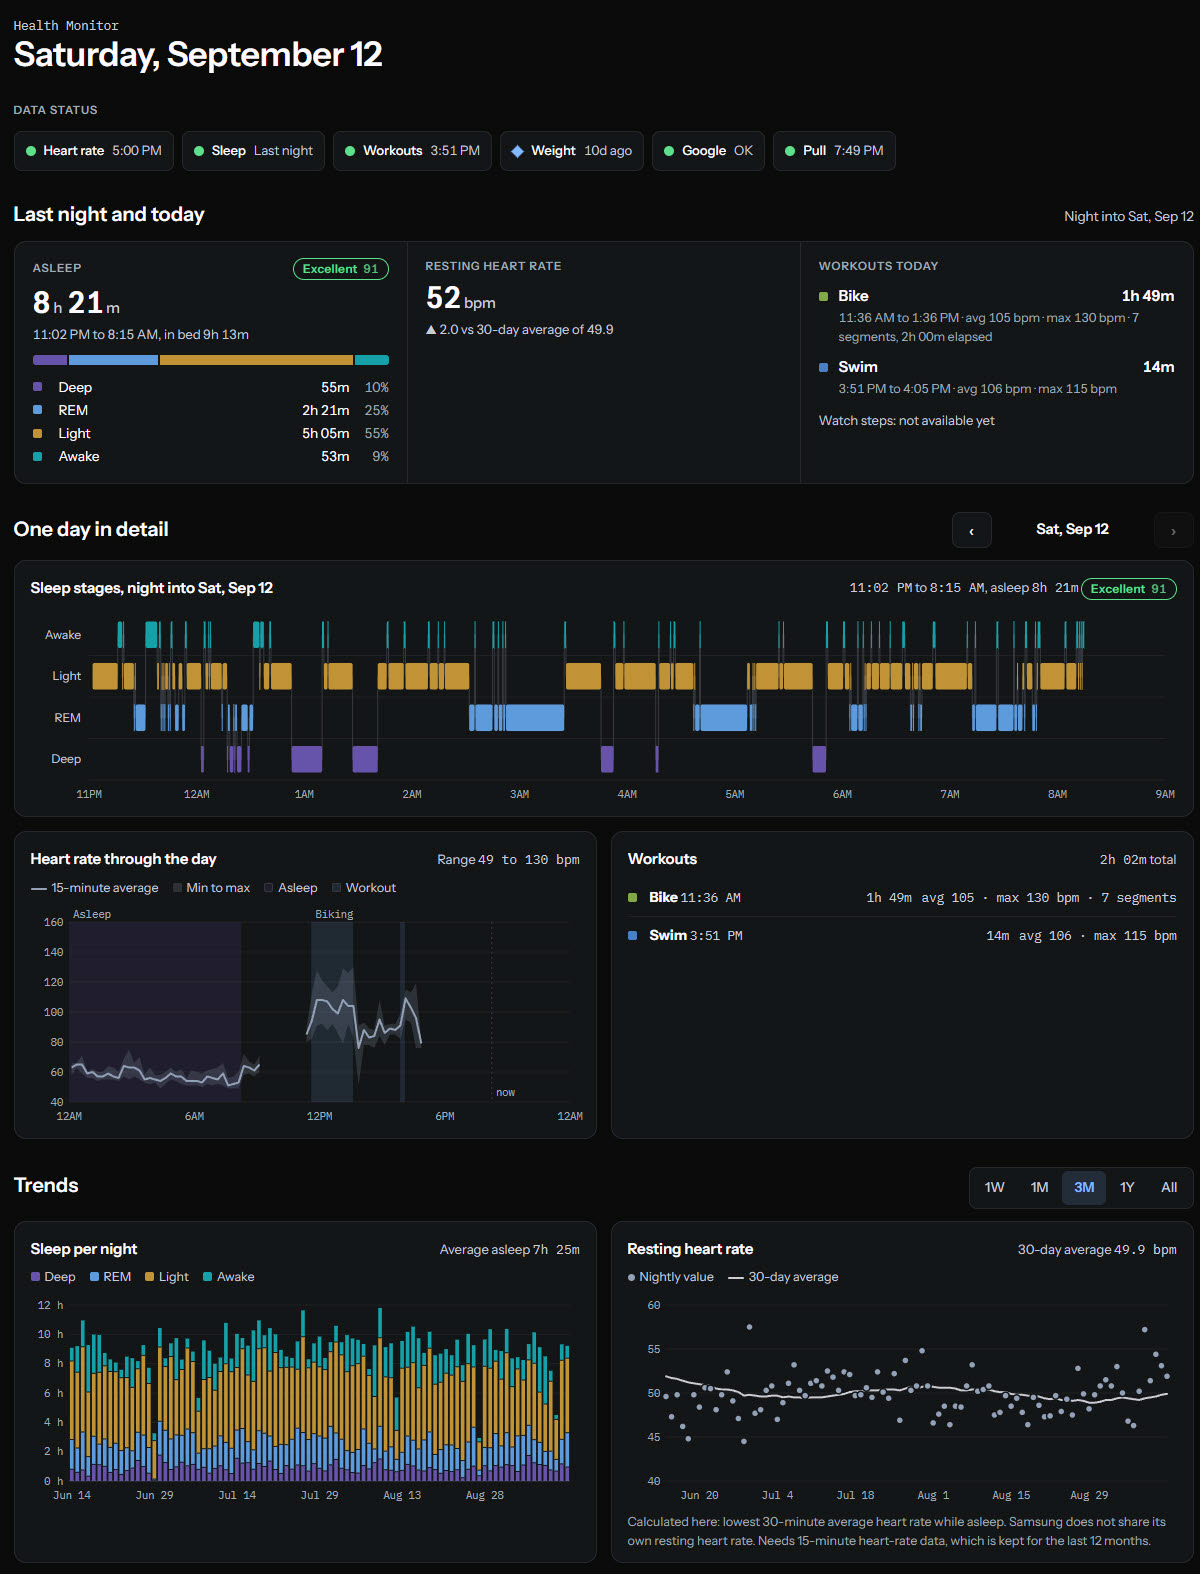
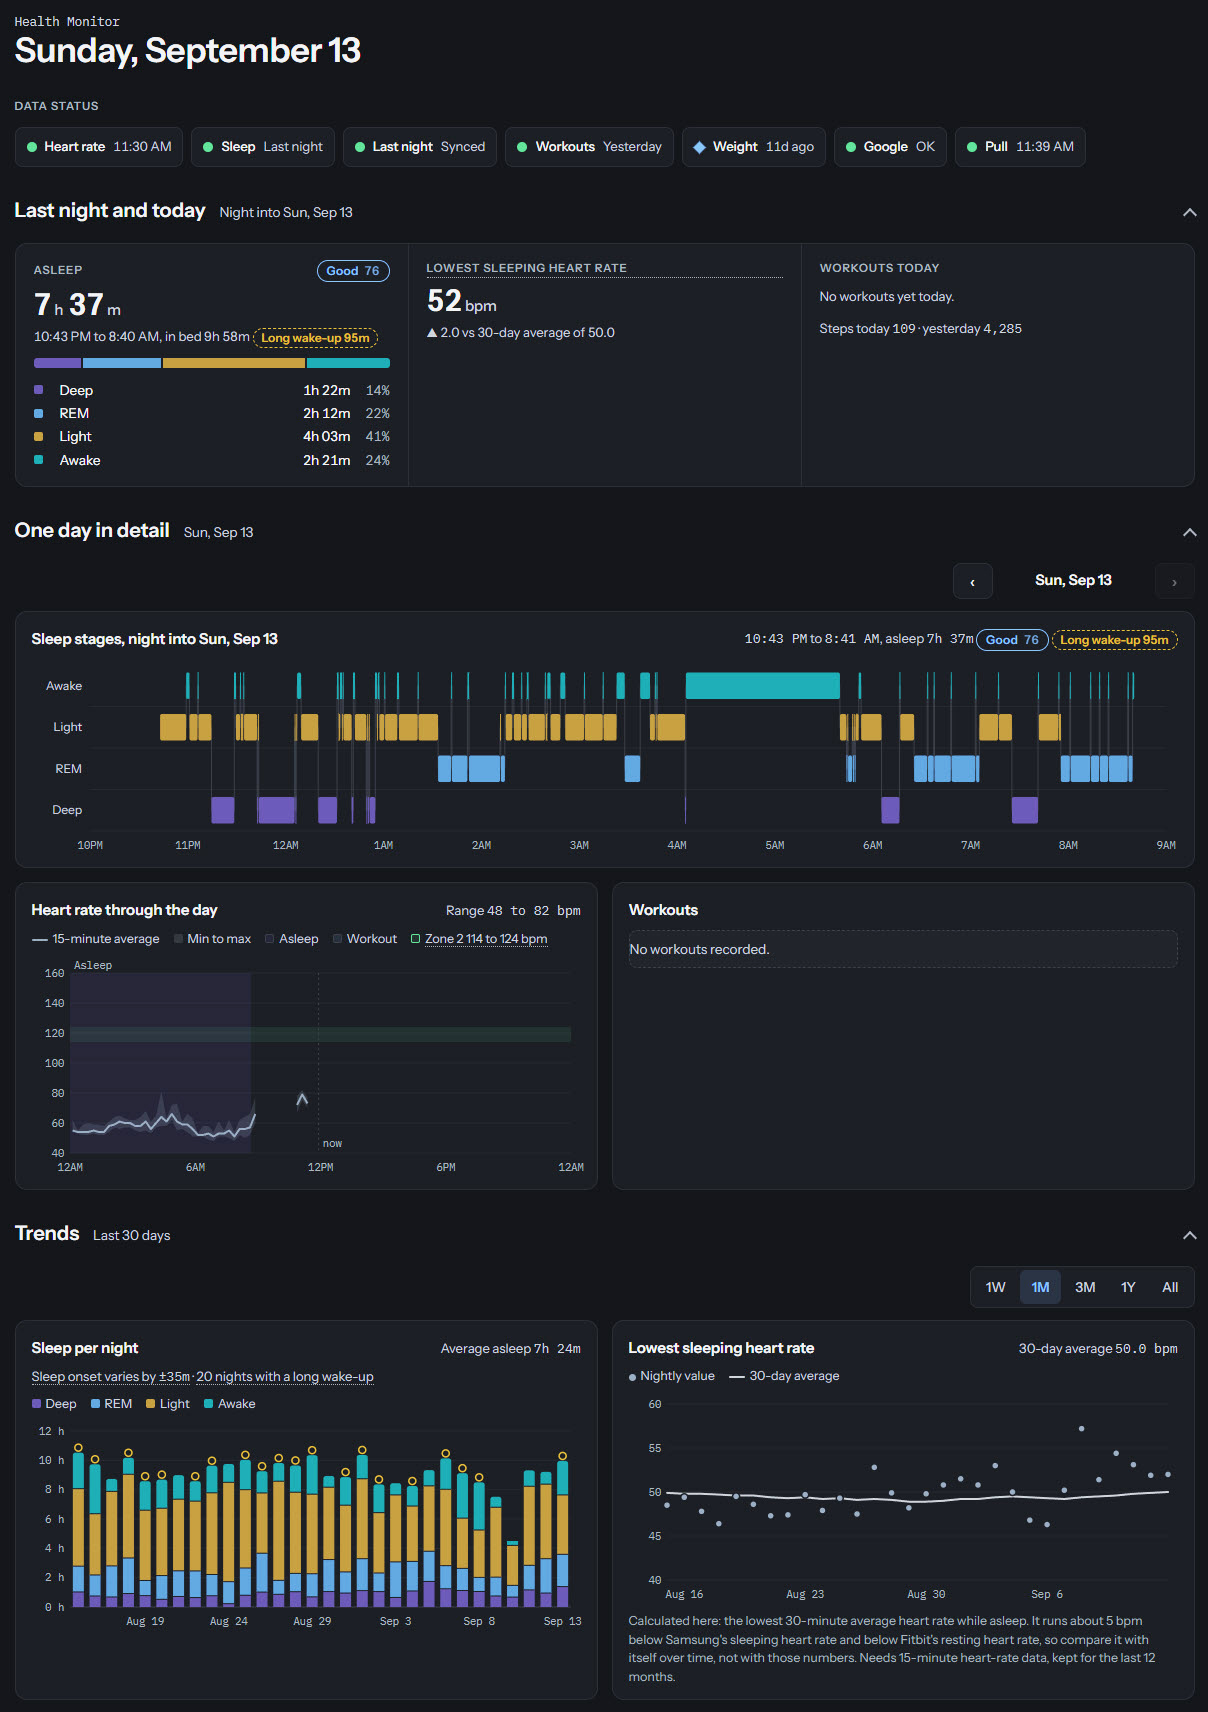
README: Samsung-scale sleep grading, long wake-up markers, updated screenshot
Claude-Session: https://claude.ai/code/session_01TGwcYS38AxjPWQH67hLTzG

diff --git a/README.md b/README.md
@@ -68,11 +68,13 @@ The free Worker plan allows 10 ms of CPU per request. Heart rate is pulled pre-s
 
 ## What you get
 
-- **Data status.** A row of chips shows when each source last delivered: heart rate, sleep, workouts, weight, Google access and the last pull. Hover for what each one means.
-- **Last night and today.** Time asleep, with hours and percentages for Deep, REM, Light and Awake; a sleep label (Excellent, Good, Fair, Attention), using Samsung's own score when you have imported it and a fitted estimate otherwise; a bad-night flag for any awakening of 15 minutes or more; lowest sleeping heart rate against its 30-day average; today's workouts and watch steps.
+- **Sleep graded on Samsung's scale.** Every night gets Samsung's four labels: Excellent, Good, Fair or Attention. Nights covered by an imported Samsung Health export show Samsung's own sleep score, exactly as the watch app grades it. Nights that arrive daily through Google get an estimate from a model fitted to Samsung's scores, which matched Samsung's label on about 78% of held-out nights; it is marked as an estimate until the next import replaces it.
+- **Long wake-ups clearly marked.** Any awakening in the middle of the night lasting 15 minutes or more is flagged as a "Long wake-up" with its length, on the Last night card, next to the night's sleep stages, and as a marker on that night's bar in the sleep trend.
+- **Data status.** A row of chips shows when each source last delivered: heart rate, sleep, whether last night has synced, workouts, weight, Google access and the last pull. Hover for what each one means.
+- **Last night and today.** Time asleep, with hours and percentages for Deep, REM, Light and Awake; the sleep label; the long wake-up flag; lowest sleeping heart rate against its 30-day average; today's workouts and watch steps.
 - **One day in detail.** A hypnogram, heart rate through the day in 15-minute min/avg/max bands with sleep, workouts and an estimated Zone 2 band shaded, the workout list, and Samsung's nightly values (sleeping HRV, skin temperature, respiratory rate, SpO2, stress) when imported.
-- **Trends.** Sleep by stage with bad nights marked and bedtime regularity, lowest sleeping heart rate, weight and body fat (each with a 7-day rolling median and scale-change bands), exercise minutes by type, daily watch steps (gap days shown as missing, never zero) and optional Samsung-export cards, over 1W, 1M, 3M, 1Y or All. Known vendor algorithm changes can be drawn as dashed markers, so a step in a trend is not read as a change in you.
-- **Data health.** A 26-week coverage calendar, which device supplied each metric when, a sync log, a "Pull now" button and CSV export.
+- **Trends.** Sleep by stage with long wake-ups marked and bedtime regularity, lowest sleeping heart rate, weight and body fat (each with a 7-day rolling median and scale-change bands), exercise minutes by type, daily watch steps (gap days shown as missing, never zero) and optional Samsung-export cards, over 1W, 1M, 3M, 1Y or All. Known vendor algorithm changes can be drawn as dashed markers, so a step in a trend is not read as a change in you.
+- **Data health, sync log and data sources.** A "Pull now" button and CSV export above a 26-week coverage calendar, a separate sync log, and a collapsed panel showing which device supplied each metric when. Sections fold when they hold no fresh data, and the page remembers your trend range and which sections you opened.
 - **Alerts about the pipeline, not about your body.** Pushover messages when watch data stops arriving, the pull keeps failing, or Google access is lost, plus one message when data flows again. Quiet hours hold them overnight.
 - **Samsung export import.** Health Connect does not carry everything Samsung records. `tools/samsung_import.py` loads Samsung Health's own "Download personal data" export: it fills nights, workouts, heart rate and steps that never reached Google, and adds Samsung's sleep score, sleeping HR and HRV, skin temperature, respiratory rate, SpO2 and stress. See [Samsung export](docs/04-samsung-export.md).
 - **Travel-aware times.** Nights and workouts use the UTC offset stored on each record, so a night abroad shows its local clock.
